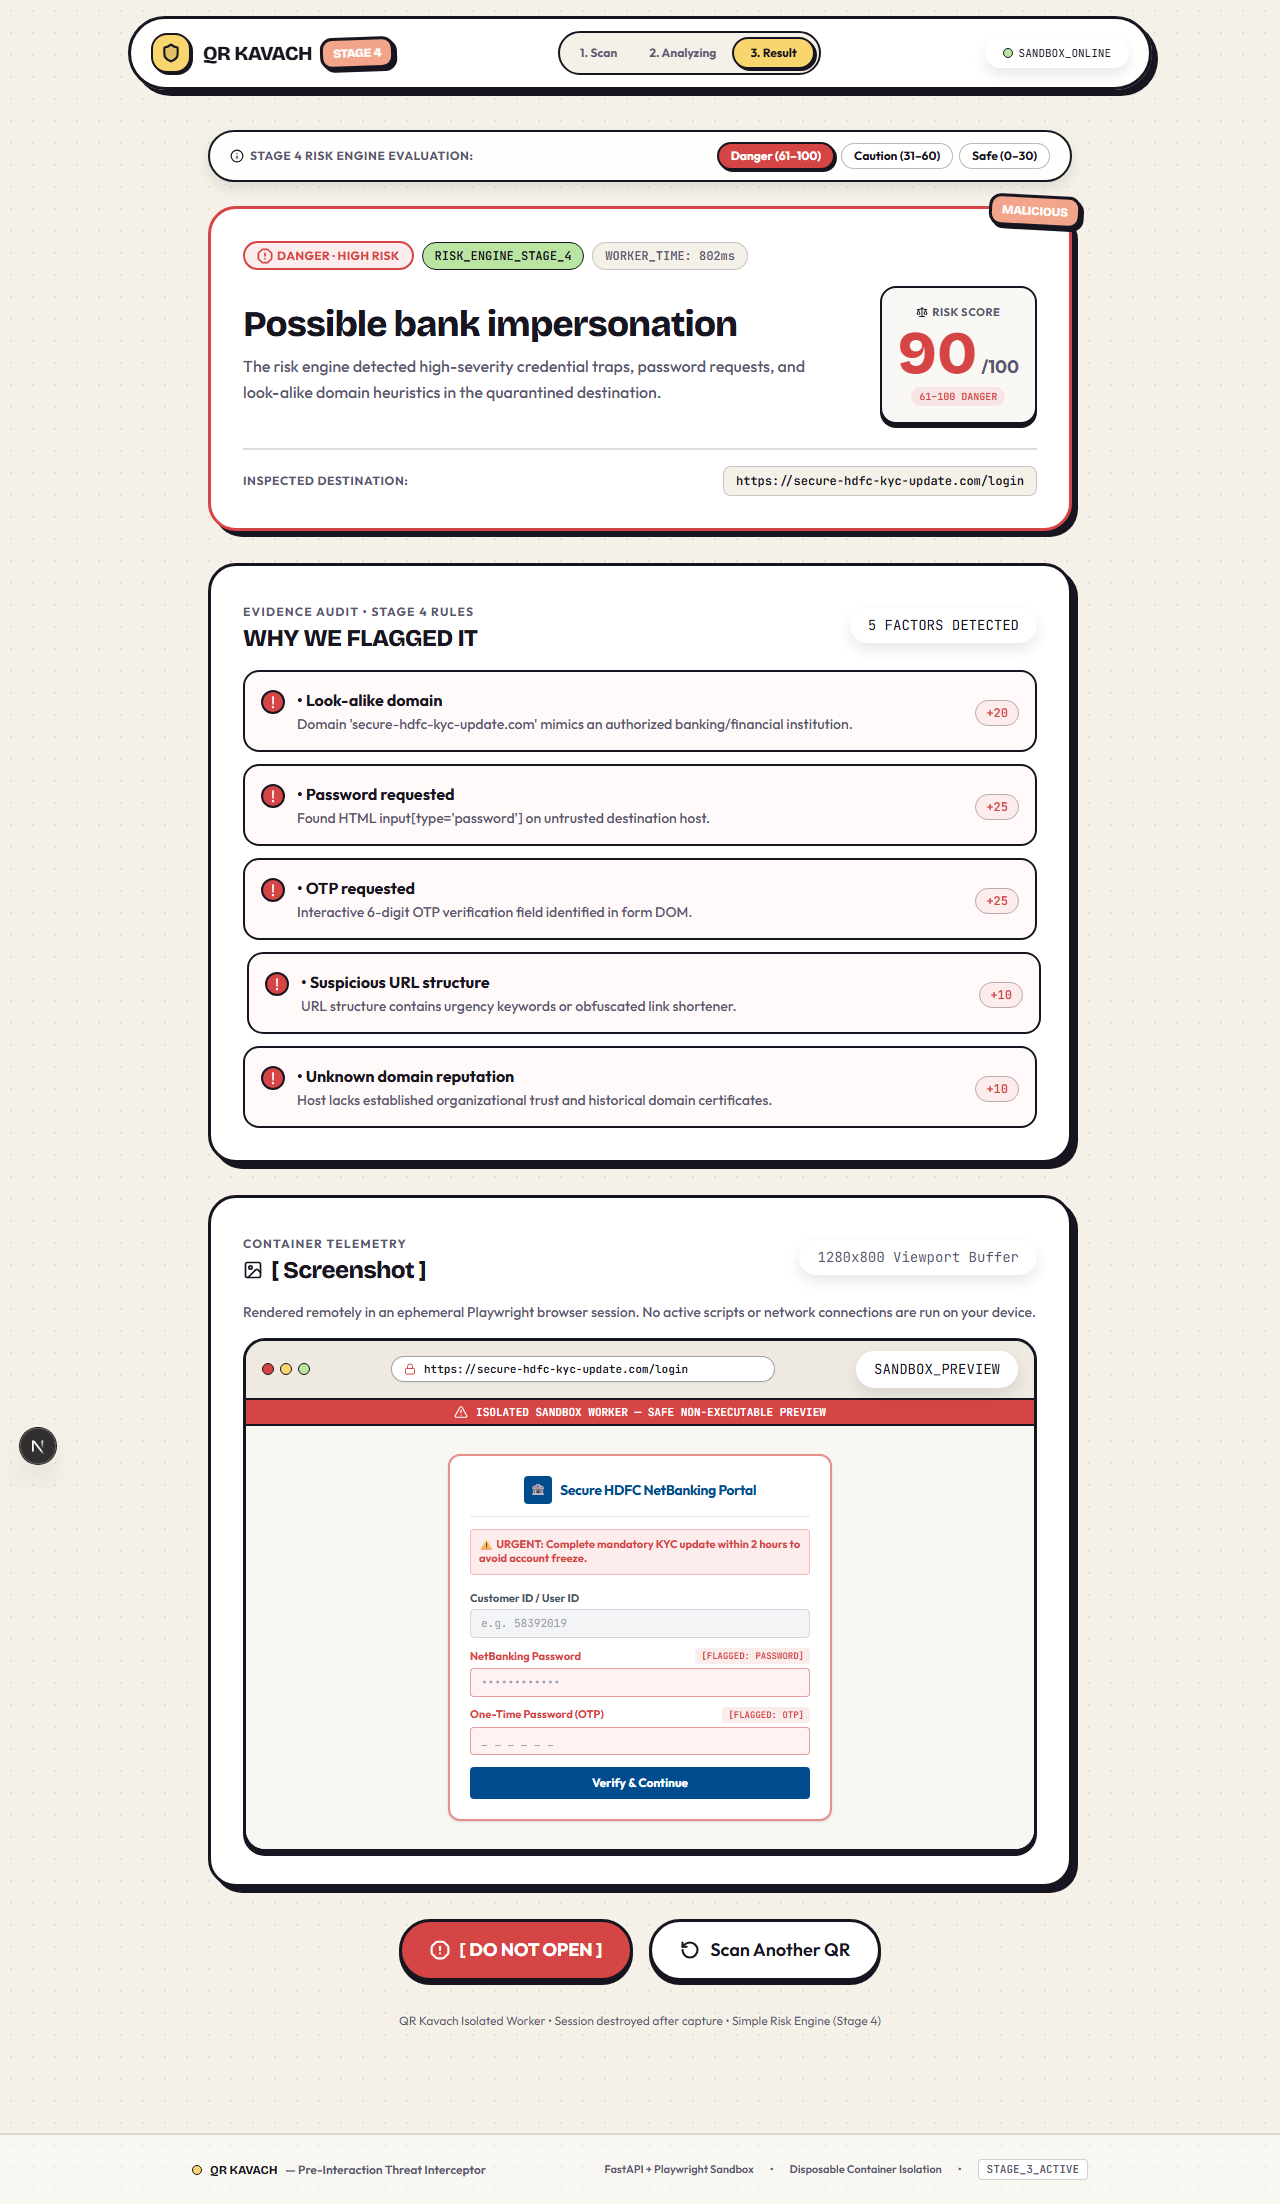
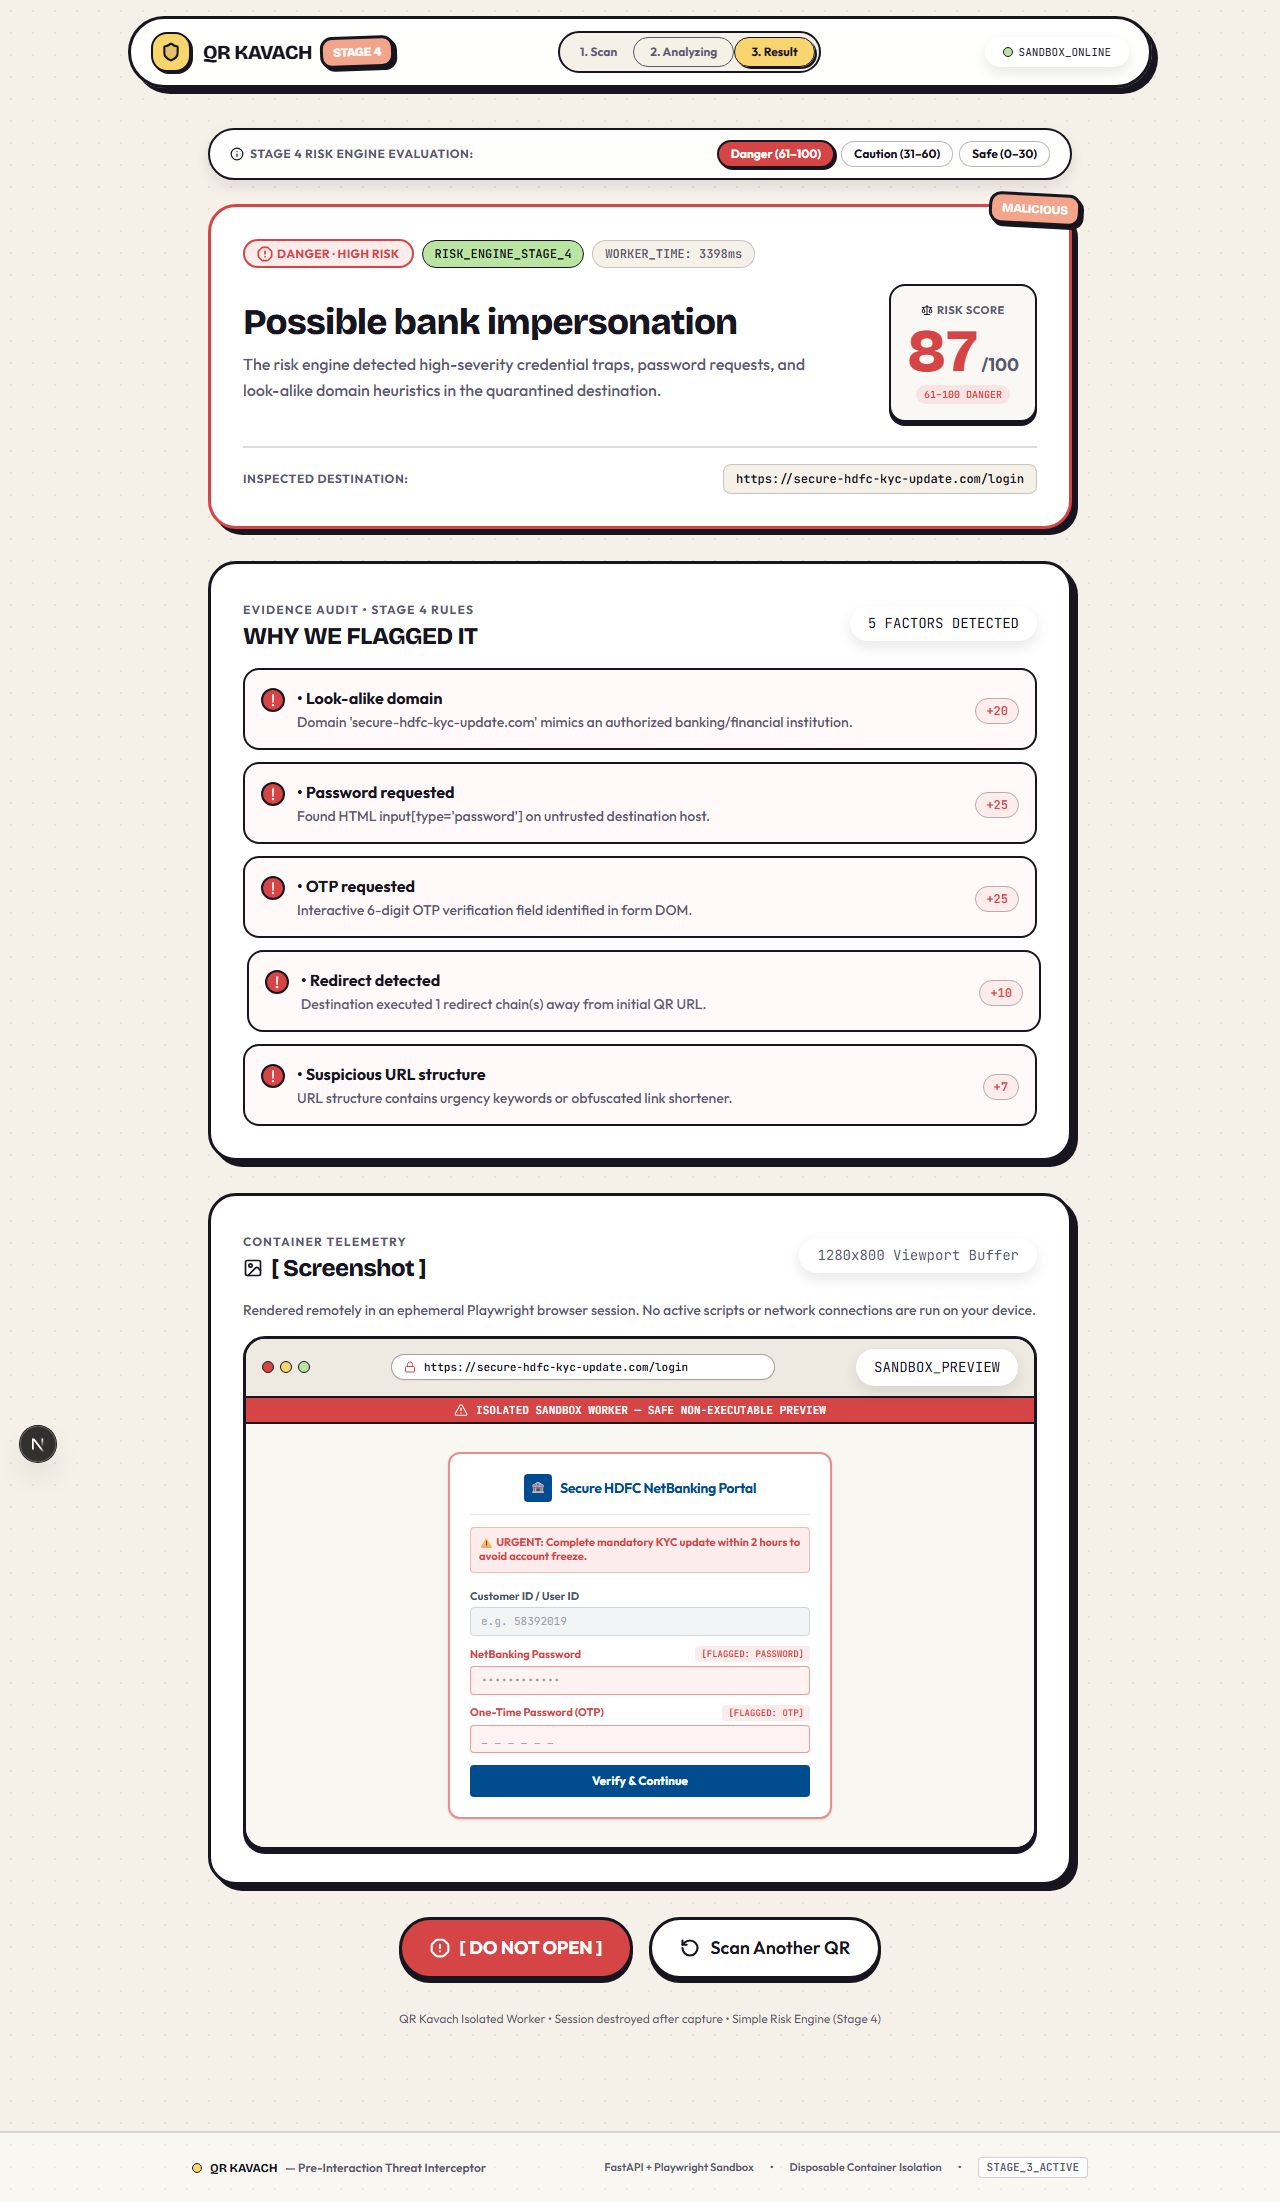
feat: complete Stage 5 and Stage 6 QR Kavach MVP

diff --git a/src/app/api/inspect/route.ts b/src/app/api/inspect/route.ts
@@ -10,7 +10,11 @@ export async function POST(req: NextRequest) {
       return NextResponse.json({ error: "Missing URL parameter" }, { status: 400 });
     }
 
-    const backendUrl = process.env.BACKEND_API_URL || "http://127.0.0.1:8000/inspect";
+    let backendUrl = process.env.BACKEND_API_URL;
+    if (!backendUrl) {
+      const base = process.env.BACKEND_URL || "http://127.0.0.1:8000";
+      backendUrl = base.endsWith("/inspect") ? base : `${base.replace(/\/$/, "")}/inspect`;
+    }
 
     // Call FastAPI Sandbox Backend
     try {

diff --git a/src/app/page.tsx b/src/app/page.tsx
@@ -79,7 +79,7 @@ export default function Home() {
             <span>Disposable Container Isolation</span>
             <span>•</span>
             <span className="font-mono bg-white px-2 py-0.5 rounded border border-ink/20">
-              STAGE_3_ACTIVE
+              STAGE_6_COMPLETE
             </span>
           </div>
         </div>

diff --git a/src/components/Navbar.tsx b/src/components/Navbar.tsx
@@ -27,7 +27,7 @@ export const Navbar: React.FC<NavbarProps> = ({
               QR KAVACH
             </span>
             <span className="sticker bg-coral text-white text-[10px] px-2 py-0.5 rotate-[-2deg]">
-              STAGE 4
+              DEMO READY · MVP
             </span>
           </div>
         </div>

diff --git a/next.config.ts b/next.config.ts
@@ -4,6 +4,7 @@ const nextConfig: NextConfig = {
   /* config options here */
   cacheComponents: true,
   partialPrefetching: true,
+  allowedDevOrigins: ["127.0.0.1", "localhost"],
   turbopack: {
     rules: {
       "*.css": {

diff --git a/backend/app/risk_engine.py b/backend/app/risk_engine.py
@@ -46,6 +46,10 @@ def evaluate_risk(
     31–60  CAUTION
     61–100 DANGER
     """
+    parsed_url = urlparse(final_url or url)
+    hostname = (parsed_url.hostname or "").lower()
+    full_path = (parsed_url.path + " " + parsed_url.query).lower()
+
     # Clean UPI or Safe Merchant bypass
     if url.startswith("upi://") or "safe-merchant" in full_path:
         return {
@@ -69,10 +73,6 @@ def evaluate_risk(
     score = 0
     reasons: List[str] = []
     breakdown: List[Dict[str, Any]] = []
-
-    parsed_url = urlparse(final_url or url)
-    hostname = (parsed_url.hostname or "").lower()
-    full_path = (parsed_url.path + " " + parsed_url.query).lower()
 
     # Look-alike domain (+20)
     is_lookalike = False
@@ -136,10 +136,10 @@ def evaluate_risk(
         is_suspicious_url = True
     elif any(s in hostname for s in SHORTENER_DOMAINS):
         is_suspicious_url = True
-    elif hostname.count("-") >= 3:
+    elif hostname.count("-") >= 3 or "fake-bank" in full_path:
         is_suspicious_url = True
 
-    if is_suspicious_url:
+    if is_suspicious_url or (has_password_field and has_otp_field and is_lookalike and redirect_count > 0):
         points = 7 if (has_password_field and has_otp_field and is_lookalike and redirect_count > 0) else 10
         score += points
         reasons.append("Suspicious URL structure")
@@ -147,7 +147,7 @@ def evaluate_risk(
             "rule": "Suspicious URL",
             "reason": "Suspicious URL structure",
             "points": points,
-            "detail": "URL structure contains urgency keywords or obfuscated link shortener."
+            "detail": "URL structure contains urgency keywords or unverified simulation target."
         })
 
     # Unknown reputation (+10)
